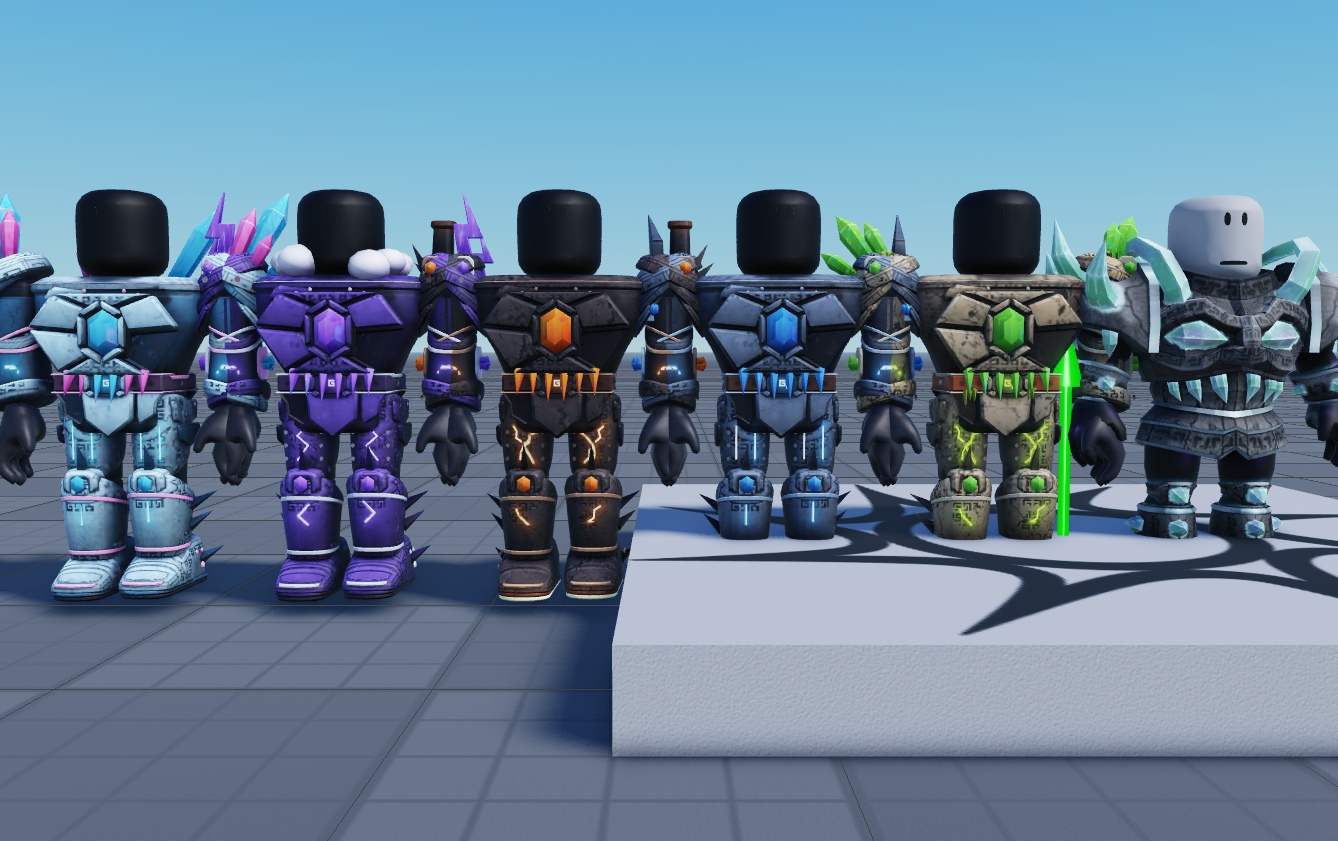
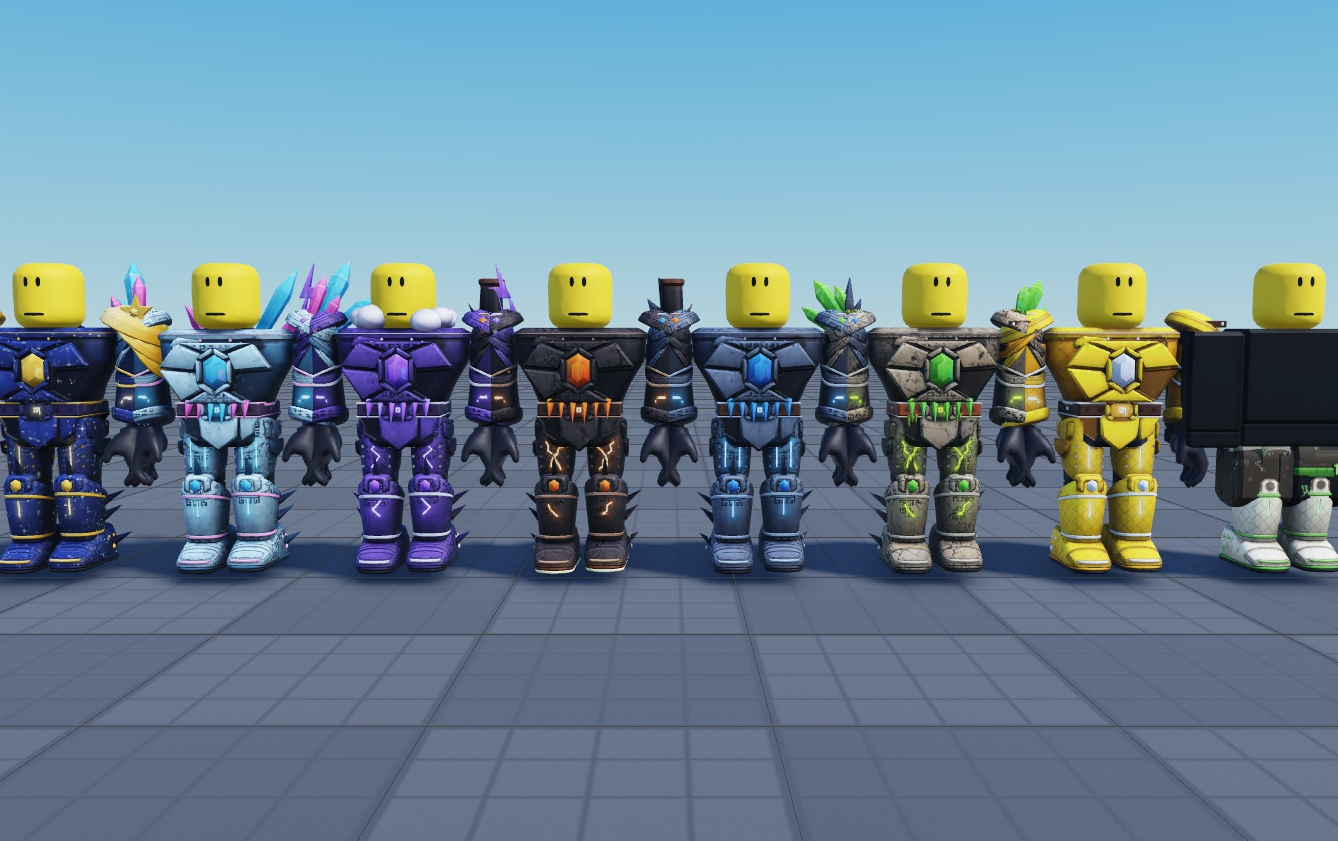
vault backup: 2026-11-12 19:49:54

diff --git a/TITAN ARC/2026-11-12 Stomp Evolution - Armour sets finish (Starter, Brawler, Star, Magma v2, Iron v5).md b/TITAN ARC/2026-11-12 Stomp Evolution - Armour sets finish (Starter, Brawler, Star, Magma v2, Iron v5).md
@@ -1,0 +1,27 @@
+# Stomp Evolution: armour sets, finish pass (12 Nov 2026)
+
+All 8 stages built and tested in Play on the owner's avatar. Place saved. Group 33151111, all assets Approved.
+
+## Asset IDs
+| Set | Model | Torso | LeftArm | RightArm | LeftLeg | RightLeg | Extra |
+|---|---|---|---|---|---|---|---|
+| Starter | 125889359808975 | – | – | – | 71466594645651 | 123651842609602 | – |
+| Brawler | 92916546002824 | 95656537849910 | 101042518646545 | 92236207736236 | 87059187602884 | 140114315898318 | – |
+| Magma v2 | 111660022569313 | 137186650904792 | 105257903050346 | 124430025130489 | 84682661160169 | 118638155687524 | – |
+| Star | 113160683912171 | 78049931328668 | 128833518724152 | 119955074759344 | 77507626351348 | 73092899424923 | 86535098135155 |
+| Iron v5 | 75998039938381 | 78675876819915 | 71321453647759 | 106364617922494 | 91693049918212 | 119040529627981 | 135645625421641 |
+
+Earlier: Stone v12 model 138252396562248; Storm model 127144244448803; Crystal model 108276924851944.
+
+## What changed
+- Starter: LowerLeg + Foot only (padded boots, 4 parts). Brawler: padded straps/rivets, 12 parts.
+- Star: gold star shoulders with gems, long cape + gold halo ring with 7 stars (accessories, Extra map).
+- Iron v5: short cape accessory. Cape handle attachment +0.24 Z so the back rune doesn't poke through.
+- Magma v2: wider chimneys (r 27, h 86). Storm: 2 spark emitters on the boots.
+- ArmourKit: Apply removes old ArmourPiece accessories; if the set has accessories it removes the player's accessories on the same attachment or WaistBackAttachment (a player's own cape covered the Star cape); Remove destroys ArmourPiece accessories and re-applies the description.
+- Cleanup: Korblox BundleRefs moved to ServerStorage.StompEvolution.Raw.BundleRefs; workspace test rigs and _LineupTemp removed.
+
+## Lessons
+- A player's own back accessory hides caped sets: always strip same-attachment accessories.
+- dome_top must take the highest surface point within 3 units (it returned the underside once).
+- Run the QA checklist before showing any set.
